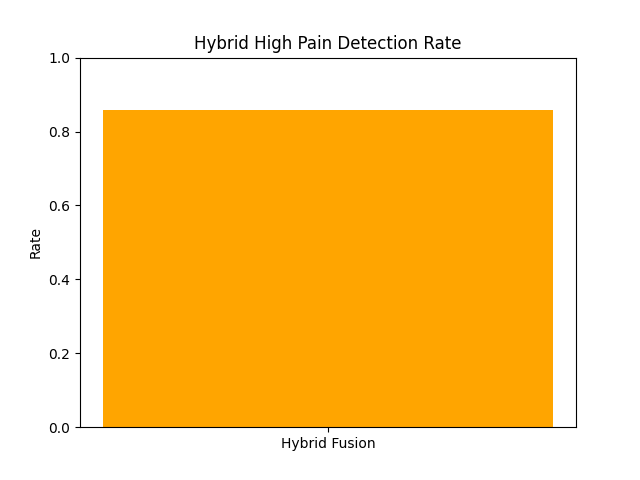
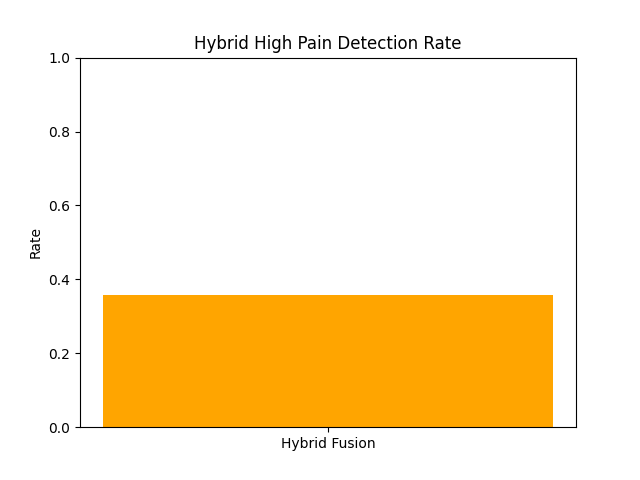
testing done

Changed region(s): [[0.1562, 0.2188, 0.875, 0.625]]

diff --git a/model_testing.py b/model_testing.py
@@ -1,0 +1,108 @@
+import numpy as np
+import tensorflow as tf
+from tensorflow import keras
+from sklearn.metrics import accuracy_score, classification_report, confusion_matrix, f1_score, precision_score, recall_score
+import pandas as pd
+import matplotlib.pyplot as plt
+import seaborn as sns
+import random
+
+NUM_CLASSES = 3
+REPEATS = 30  # More repeats for more stable averaged metrics
+
+def focal_loss(gamma=2., alpha=.5):
+    def focal_loss_fixed(y_true, y_pred):
+        y_true = tf.one_hot(tf.cast(y_true, tf.int32), depth=NUM_CLASSES)
+        y_pred = tf.clip_by_value(y_pred, 1e-7, 1-1e-7)
+        ce = - y_true * tf.math.log(y_pred)
+        weight = alpha * tf.math.pow(1 - y_pred, gamma)
+        loss = weight * ce
+        return tf.reduce_sum(loss, axis=1)
+    return focal_loss_fixed
+
+model = keras.models.load_model('fusion_mlp_best_model.h5', custom_objects={'focal_loss_fixed': focal_loss()})
+
+probs_face = np.load('probs_face.npy').astype(np.float32)
+probs_posture = np.load('probs_posture.npy').astype(np.float32)
+y_test_face = np.load('y_test_face_collapsed.npy')
+y_test_posture = np.load('y_test_posture.npy')
+
+def make_balanced_pseudo_pairs(probs_face, y_face, probs_posture, y_posture):
+    pairs = []
+    class_counts_face = [len(np.where(y_face == c)[0]) for c in range(NUM_CLASSES)]
+    class_counts_posture = [len(np.where(y_posture == c)[0]) for c in range(NUM_CLASSES)]
+    min_count = min([count for count in class_counts_face + class_counts_posture if count > 0])
+    for c in range(NUM_CLASSES):
+        idx_face = np.where(y_face == c)[0]
+        idx_posture = np.where(y_posture == c)[0]
+        if len(idx_face) == 0 or len(idx_posture) == 0:
+            continue
+        np.random.shuffle(idx_face)
+        np.random.shuffle(idx_posture)
+        for i in range(min_count):
+            pairs.append((probs_face[idx_face[i]], probs_posture[idx_posture[i]], c))
+    random.shuffle(pairs)
+    return pairs
+
+metrics_list = []
+
+for seed in range(REPEATS):
+    np.random.seed(seed)
+    random.seed(seed)
+    pairs = make_balanced_pseudo_pairs(probs_face, y_test_face, probs_posture, y_test_posture)
+    face_logits = np.array([a for a, b, lbl in pairs])
+    posture_logits = np.array([b for a, b, lbl in pairs])
+    labels = np.array([lbl for a, b, lbl in pairs])
+
+    X_test = np.concatenate([face_logits, posture_logits], axis=-1)
+    y_pred_probs = model.predict(X_test)
+    y_pred = np.argmax(y_pred_probs, axis=1)
+
+    acc = accuracy_score(labels, y_pred)
+    f1 = f1_score(labels, y_pred, average='weighted', zero_division=0)
+    precision = precision_score(labels, y_pred, average='weighted', zero_division=0)
+    recall = recall_score(labels, y_pred, average='weighted', zero_division=0)
+
+    metrics_list.append([acc, f1, precision, recall])
+
+metrics_array = np.array(metrics_list)
+metrics_mean = metrics_array.mean(axis=0)
+metrics_std = metrics_array.std(axis=0)
+
+df_metrics = pd.DataFrame({
+    'Metric': ['Accuracy', 'F1 Score', 'Precision', 'Recall'],
+    'Mean': metrics_mean,
+    'Std': metrics_std
+})
+
+df_metrics.to_csv('test_balanced_metrics_summary.csv', index=False)
+print("Balanced repeated test evaluation complete:")
+print(df_metrics)
+
+# Save confusion matrix and classification report for final seed
+pairs_final = make_balanced_pseudo_pairs(probs_face, y_test_face, probs_posture, y_test_posture)
+face_logits = np.array([a for a, b, lbl in pairs_final])
+posture_logits = np.array([b for a, b, lbl in pairs_final])
+labels = np.array([lbl for a, b, lbl in pairs_final])
+
+X_test_final = np.concatenate([face_logits, posture_logits], axis=-1)
+y_pred_probs_final = model.predict(X_test_final)
+y_pred_final = np.argmax(y_pred_probs_final, axis=1)
+
+report = classification_report(labels, y_pred_final, zero_division=0)
+report_df = pd.DataFrame(classification_report(labels, y_pred_final, output_dict=True, zero_division=0)).transpose()
+report_df.to_csv('test_classification_report.csv', index=True)
+
+cm = confusion_matrix(labels, y_pred_final)
+plt.figure(figsize=(8,6))
+sns.heatmap(cm / cm.sum(axis=1)[:, None], annot=True, fmt='.2%', cmap='Blues',
+            xticklabels=['No Pain', 'Low Pain', 'High Pain'],
+            yticklabels=['No Pain', 'Low Pain', 'High Pain'])
+plt.title('Test Confusion Matrix (%)')
+plt.xlabel('Predicted Label')
+plt.ylabel('True Label')
+plt.tight_layout()
+plt.savefig('test_confusion_matrix.png')
+plt.close()
+
+print("Confusion matrix and classification report saved.")
